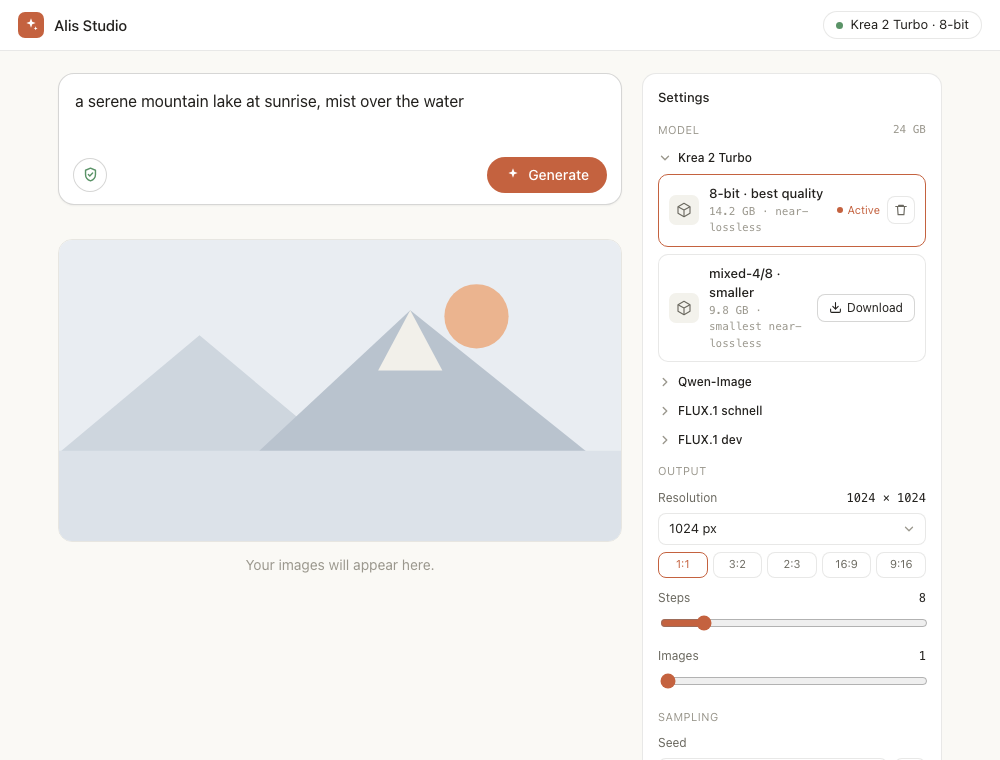
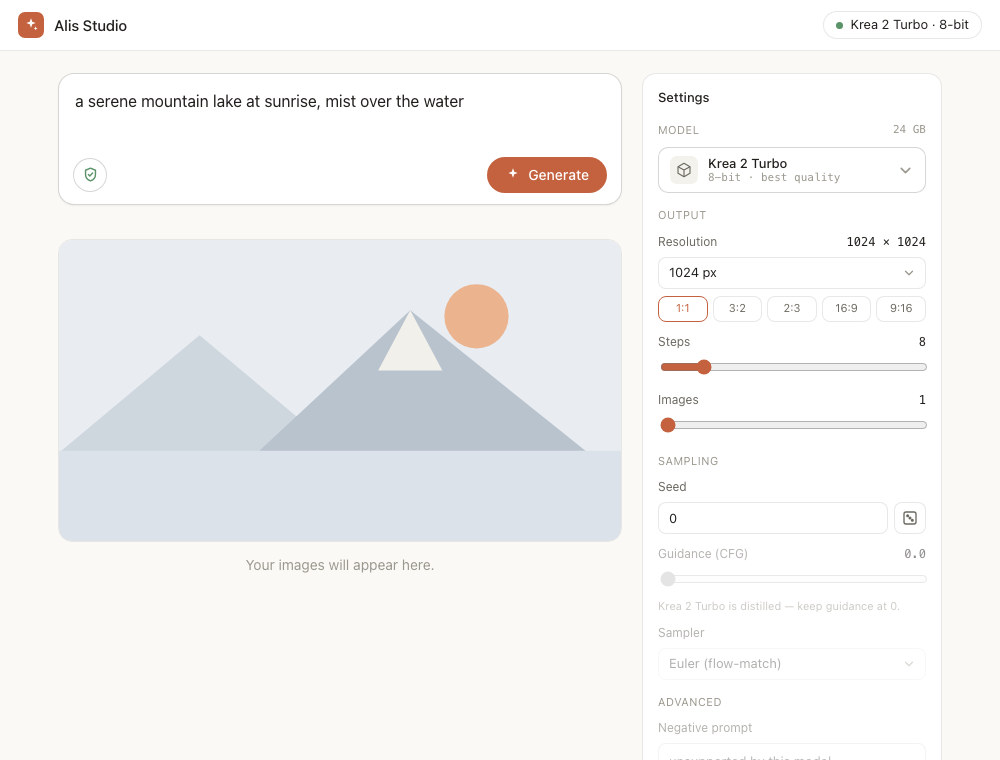
Model list style B: picker button + popover (cleaner than the inline list)
The Model section is now a single picker button showing the active model
(name + build); clicking it opens a popover with all models grouped by name,
each build a row — active is checked, not-installed downloadable builds show a
download action (inline progress), installed ones a delete. Selecting closes the
popover; clicking outside closes it. This declutters the settings panel (one line
instead of N build rows) while keeping selection + download + delete in one place.

Replaces the collapsible groups. README screenshot refreshed.

(Style A — a one-line dropdown + a separate "Manage" modal — is also viable and
noted as implementable; B was chosen for keeping selection + management together.)

diff --git a/web/index.html b/web/index.html
@@ -63,20 +63,26 @@ input[type=range]{width:100%;accent-color:var(--clay)}
 .hint{font-size:11px;color:var(--muted);margin-top:5px;line-height:1.4}
 textarea.fld{height:auto;min-height:54px;padding:8px 10px;resize:vertical;line-height:1.4}
 .disabled{opacity:.5;pointer-events:none}
-.mhdr{display:flex;align-items:center;gap:6px;font-size:12px;font-weight:500;color:var(--text);margin:11px 0 7px;cursor:pointer;user-select:none}
-.mhdr:hover{color:var(--clay)}
-.mhdr .chev{display:inline-flex;color:var(--muted);transition:transform .15s}
-.mhdr .chev svg{width:14px;height:14px}
-.mhdr .chev.open{transform:rotate(90deg)}
-.mhdr .hact{color:var(--clay);font-weight:400;font-size:11px;margin-left:1px}
-#modelGroup .mhdr:first-of-type{margin-top:4px}
-.mrow{display:flex;align-items:center;gap:10px;padding:9px 10px;border:0.5px solid var(--border);border-radius:10px;background:var(--surface-2);margin-bottom:7px;flex-wrap:wrap}
-.mrow.active{border-color:var(--clay)}
-.mic{width:30px;height:30px;border-radius:7px;background:var(--surface-1);display:flex;align-items:center;justify-content:center;color:var(--text-2);flex:none}.mic svg{width:16px;height:16px}
-.mname{font-size:13px;font-weight:500}.msub{font-size:11px;color:var(--muted);font-family:var(--mono)}
-.mtag{display:inline-flex;align-items:center;gap:5px;font-size:11px;color:var(--clay)}.mtag .dot{width:6px;height:6px;border-radius:50%;background:var(--clay)}
-.mbtn{height:28px;padding:0 11px;border:0.5px solid var(--border-strong);border-radius:8px;background:var(--surface);font-size:12px;color:var(--text);display:inline-flex;align-items:center;gap:5px}.mbtn:hover{background:var(--surface-1)}.mbtn:disabled{opacity:.6}.mbtn svg{width:13px;height:13px}
-.mdel{width:28px;height:28px;border:0.5px solid var(--border);border-radius:8px;background:var(--surface);color:var(--text-2);display:inline-flex;align-items:center;justify-content:center;flex:none}.mdel:hover{border-color:var(--border-strong)}.mdel svg{width:14px;height:14px}
+.picker{position:relative}
+.mpick{width:100%;height:46px;border:0.5px solid var(--border-strong);border-radius:10px;background:var(--surface-2);padding:0 11px;display:flex;align-items:center;gap:10px;cursor:pointer;color:var(--text);font:inherit}
+.mpick:hover{background:var(--surface-1)}
+.mpico{width:28px;height:28px;border-radius:7px;background:var(--surface-1);display:flex;align-items:center;justify-content:center;color:var(--text-2);flex:none}.mpico svg{width:16px;height:16px}
+.mptxt{min-width:0;flex:1;text-align:left;line-height:1.25}
+.mpn{display:block;font-size:13px;font-weight:500}
+.mpv{display:block;font-size:11px;color:var(--muted);font-family:var(--mono);overflow:hidden;text-overflow:ellipsis;white-space:nowrap}
+.mpchev{color:var(--muted);display:inline-flex;flex:none}.mpchev svg{width:17px;height:17px}
+.mpop{display:none;position:absolute;top:calc(100% + 5px);left:0;right:0;z-index:30;max-height:330px;overflow:auto;background:var(--surface-2);border:0.5px solid var(--border-strong);border-radius:12px;padding:5px;box-shadow:0 10px 30px rgba(20,18,16,.18)}
+.mpop.open{display:block}
+.mpg{font-size:11px;color:var(--muted);text-transform:uppercase;letter-spacing:.04em;padding:8px 9px 4px}
+.mpr{display:flex;align-items:center;gap:9px;padding:7px 9px;border-radius:8px;cursor:pointer;flex-wrap:wrap}
+.mpr:hover{background:var(--surface-1)}
+.mpr.on{background:rgba(196,98,63,.10)}
+.mpri{width:26px;height:26px;border-radius:6px;background:var(--surface-1);display:flex;align-items:center;justify-content:center;color:var(--text-2);flex:none}.mpri svg{width:15px;height:15px}
+.mprt{min-width:0;flex:1;line-height:1.25}
+.mprn{display:block;font-size:13px;color:var(--text)}
+.mprs{display:block;font-size:11px;color:var(--muted);font-family:var(--mono)}
+.mpra{display:inline-flex;align-items:center;gap:7px;color:var(--text-2);flex:none}.mpra svg{width:16px;height:16px}.mpra .ok{color:var(--clay);display:inline-flex}
+.mpdel{display:inline-flex;color:var(--muted);cursor:pointer}.mpdel:hover{color:var(--text)}.mpdel svg{width:15px;height:15px}
 .mprog{height:4px;border-radius:2px;background:var(--surface-1);overflow:hidden;margin-top:8px;flex-basis:100%}.mprog i{display:block;height:100%;width:0;background:var(--clay);border-radius:2px;transition:width .3s}
 .progress{display:none;margin:8px 0 2px}.progress.show{display:block}
 .bar{height:4px;border-radius:2px;background:var(--surface-1);overflow:hidden}.bar i{display:block;height:100%;width:0;background:var(--clay);border-radius:2px;transition:width .25s}
@@ -130,6 +136,11 @@ const progress=$("#progress"),barfill=$("#barfill"),pstep=$("#pstep"),ptime=$("#
 const modelGroup=$("#modelGroup"),paramGroups=$("#paramGroups"),activeName=$("#activeName"),safetyBtn=$("#safety");
 let BACKENDS=[],CATALOG={backends:[],disk_gb:0},PV={},current="",safetyOn=true,busy=false,t0=0,timer=null;
 const SVG_DL='<svg viewBox="0 0 24 24" fill="none" stroke="currentColor" stroke-width="2" stroke-linecap="round" stroke-linejoin="round"><path d="M21 15v4a2 2 0 0 1-2 2H5a2 2 0 0 1-2-2v-4"/><path d="M7 10l5 5 5-5"/><path d="M12 15V3"/></svg>';
+const SVG_CUBE='<svg viewBox="0 0 24 24" fill="none" stroke="currentColor" stroke-width="1.7" stroke-linejoin="round" aria-hidden="true"><path d="M12 2l9 5v10l-9 5-9-5V7z"/><path d="M3 7l9 5 9-5M12 12v10"/></svg>';
+const SVG_CHECK='<svg viewBox="0 0 24 24" fill="none" stroke="currentColor" stroke-width="2.4" stroke-linecap="round" stroke-linejoin="round" aria-hidden="true"><path d="M5 12l5 5 9-10"/></svg>';
+const SVG_DLI='<svg viewBox="0 0 24 24" fill="none" stroke="currentColor" stroke-width="2" stroke-linecap="round" stroke-linejoin="round" aria-hidden="true"><path d="M21 15v4a2 2 0 0 1-2 2H5a2 2 0 0 1-2-2v-4M7 10l5 5 5-5M12 15V3"/></svg>';
+const SVG_TRASH='<svg viewBox="0 0 24 24" fill="none" stroke="currentColor" stroke-width="2" stroke-linecap="round" stroke-linejoin="round" aria-hidden="true"><path d="M3 6h18M8 6V4h8v2M6 6l1 14h10l1-14"/></svg>';
+const SVG_CHEVD='<svg viewBox="0 0 24 24" fill="none" stroke="currentColor" stroke-width="2.2" stroke-linecap="round" stroke-linejoin="round" aria-hidden="true"><path d="M6 9l6 6 6-6"/></svg>';
 const fmt=n=>(Math.round(n*10)/10).toFixed(1);
 const showErr=m=>{errBox.textContent=m;errBox.classList.add("show");};
 const m16=(x,min,max)=>Math.max(min,Math.min(max,Math.round(x/16)*16));
@@ -140,6 +151,7 @@ prompt.addEventListener("input",()=>{prompt.style.height="auto";prompt.style.hei
 prompt.addEventListener("keydown",e=>{if((e.metaKey||e.ctrlKey)&&e.key==="Enter")generate();});
 safetyBtn.addEventListener("click",()=>{safetyOn=!safetyOn;safetyBtn.classList.toggle("on",safetyOn);safetyBtn.title="NSFW safety filter: "+(safetyOn?"on":"off");});
 gen.addEventListener("click",generate);
+document.addEventListener("click",e=>{if(POPEN&&!e.target.closest(".picker")){POPEN=false;const p=document.querySelector(".mpop");if(p)p.classList.remove("open");}});
 
 async function loadAll(){
   try{
@@ -153,7 +165,7 @@ async function loadAll(){
   }catch(e){showErr("Couldn’t reach the server: "+e.message);}
 }
 let DOWNLOADING=false;
-const EXPANDED=new Set();   // which model groups are expanded in the Model section
+let POPEN=false;   // is the model picker popover open
 // the authoritative build list is /api/models variants, enriched with /api/catalog (size + install
 // state). a variant with no catalog entry is a local/non-downloadable model: always usable, no buttons.
 function allBuilds(){
@@ -169,7 +181,6 @@ const buildOf=model=>allBuilds().find(b=>b.backend+":"+b.variant===model);
 function setActive(model,initial){
   const changedBackend=backendOf(model)!==backendOf(current);
   current=model;
-  EXPANDED.add(model.split(":")[0]);   // keep the active model's group open
   const b=backendOf(model),bld=buildOf(model);
   activeName.textContent=b.label+" · "+(bld?bld.label.split(" · ")[0]:model.split(":")[1]);
   if(initial||changedBackend)renderParams(b);
@@ -187,40 +198,30 @@ function reconcile(){
 function renderModelGroup(){
   modelGroup.innerHTML="";
   const head=el("div","sgrp","Model");head.appendChild(el("span","disk",(CATALOG.disk_gb||0)+" GB"));modelGroup.appendChild(head);
+  const wrap=el("div","picker"),cur=buildOf(current);
+  const btn=el("button","mpick",'<span class="mpico">'+SVG_CUBE+'</span><span class="mptxt"><span class="mpn">'+(cur?cur.blabel:"Select a model")+'</span><span class="mpv">'+(cur?cur.label:"")+'</span></span><span class="mpchev">'+SVG_CHEVD+'</span>');
+  btn.setAttribute("aria-label","Choose model");btn.setAttribute("aria-expanded",POPEN?"true":"false");
+  const pop=el("div","mpop"+(POPEN?" open":""));
   const builds=allBuilds(),byB={};
-  builds.forEach(b=>(byB[b.backend]=byB[b.backend]||[]).push(b));   // one collapsible group per model
-  Object.entries(byB).forEach(([bid,grp])=>{
-    const open=EXPANDED.has(bid),active=grp.some(b=>b.backend+":"+b.variant===current);
-    const chev='<span class="chev'+(open?" open":"")+'"><svg viewBox="0 0 24 24" fill="none" stroke="currentColor" stroke-width="2.4" stroke-linecap="round" stroke-linejoin="round"><path d="M9 6l6 6-6 6"/></svg></span>';
-    const hdr=el("div","mhdr",chev+grp[0].blabel+((active&&!open)?' <span class="hact">· active</span>':''));
-    hdr.onclick=()=>{open?EXPANDED.delete(bid):EXPANDED.add(bid);renderModelGroup();};
-    modelGroup.appendChild(hdr);
-    if(open)grp.forEach(b=>modelGroup.appendChild(modelRow(b)));
-  });
+  builds.forEach(b=>(byB[b.backend]=byB[b.backend]||[]).push(b));   // group builds under each model in the popover
+  Object.entries(byB).forEach(([bid,grp])=>{pop.appendChild(el("div","mpg",grp[0].blabel));grp.forEach(b=>pop.appendChild(popRow(b)));});
+  btn.onclick=e=>{e.stopPropagation();POPEN=!POPEN;pop.classList.toggle("open",POPEN);btn.setAttribute("aria-expanded",POPEN?"true":"false");};
+  wrap.appendChild(btn);wrap.appendChild(pop);modelGroup.appendChild(wrap);
 }
 
-function modelRow(b){
+function popRow(b){
   const id=b.backend+":"+b.variant,active=(id===current);
-  const r=el("div","mrow"+(active?" active":""));
-  r.appendChild(el("span","mic",'<svg viewBox="0 0 24 24" fill="none" stroke="currentColor" stroke-width="1.7" stroke-linejoin="round" aria-hidden="true"><path d="M12 2l9 5v10l-9 5-9-5V7z"/><path d="M3 7l9 5 9-5M12 12v10"/></svg>'));
-  const sub=b.downloadable?(b.size_gb+" GB · "+(b.note||"")):(b.note||"local model");
-  const info=el("div",null,'<div class="mname">'+b.label+'</div><div class="msub">'+sub+'</div>');info.style.cssText="min-width:0;flex:1";r.appendChild(info);
-  const right=el("div");right.style.cssText="display:flex;align-items:center;gap:7px";
-  if(b.downloadable&&!b.installed){
-    const dl=el("button","mbtn",'<svg viewBox="0 0 24 24" fill="none" stroke="currentColor" stroke-width="2" stroke-linecap="round" stroke-linejoin="round"><path d="M21 15v4a2 2 0 0 1-2 2H5a2 2 0 0 1-2-2v-4M7 10l5 5 5-5M12 15V3"/></svg>Download');
-    dl.setAttribute("aria-label","Download "+b.label);dl.onclick=()=>dlVariant(b,r,dl);right.appendChild(dl);
-  }else if(active){
-    right.appendChild(el("span","mtag",'<span class="dot"></span>Active'));
-    if(b.downloadable)right.appendChild(delBtn(b));
-  }else{
-    const use=el("button","mbtn",null);use.textContent="Use";use.setAttribute("aria-label","Use "+b.label);use.onclick=()=>setActive(id);right.appendChild(use);
-    if(b.downloadable)right.appendChild(delBtn(b));
-  }
-  r.appendChild(right);return r;
-}
-function delBtn(b){
-  const d=el("button","mdel",'<svg viewBox="0 0 24 24" fill="none" stroke="currentColor" stroke-width="2" stroke-linecap="round" stroke-linejoin="round" aria-hidden="true"><path d="M3 6h18M8 6V4h8v2M6 6l1 14h10l1-14"/></svg>');
-  d.title="Delete "+b.label;d.setAttribute("aria-label","Delete "+b.label);d.onclick=()=>delVariant(b);return d;
+  const r=el("div","mpr"+(active?" on":""));
+  const sub=b.downloadable?((b.size_gb?b.size_gb+" GB":"")+(b.note?" · "+b.note:"")):(b.note||"");
+  r.innerHTML='<span class="mpri">'+SVG_CUBE+'</span><span class="mprt"><span class="mprn">'+b.label+'</span>'+(sub?'<span class="mprs">'+sub+'</span>':'')+'</span>';
+  const act=el("span","mpra");
+  if(active)act.innerHTML='<span class="ok">'+SVG_CHECK+'</span>';
+  else if(b.downloadable&&!b.installed)act.innerHTML=SVG_DLI;
+  if(b.downloadable&&b.installed){const d=el("span","mpdel",SVG_TRASH);d.title="Delete "+b.label;d.setAttribute("aria-label","Delete "+b.label);d.onclick=e=>{e.stopPropagation();delVariant(b);};act.appendChild(d);}
+  r.appendChild(act);
+  r.setAttribute("aria-label",b.blabel+" · "+b.label);
+  r.onclick=()=>{if(b.downloadable&&!b.installed)dlVariant(b,r,act);else{POPEN=false;setActive(id);}};
+  return r;
 }
 
 async function dlVariant(b,r,btn){